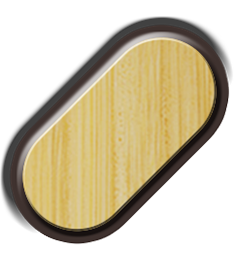
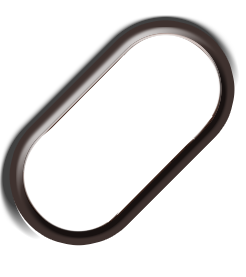
옥타브 이미지 등 바꿨음.

diff --git a/Example/GAWindTemplate/GAAppDelegate.m b/Example/GAWindTemplate/GAAppDelegate.m
@@ -15,7 +15,7 @@
 {
     NSLog(@"initialize called");
     
-    [pvc setNeedsUpDownOctave:YES];
+//    [pvc setNeedsUpDownOctave:YES];
 }
 
 @end
